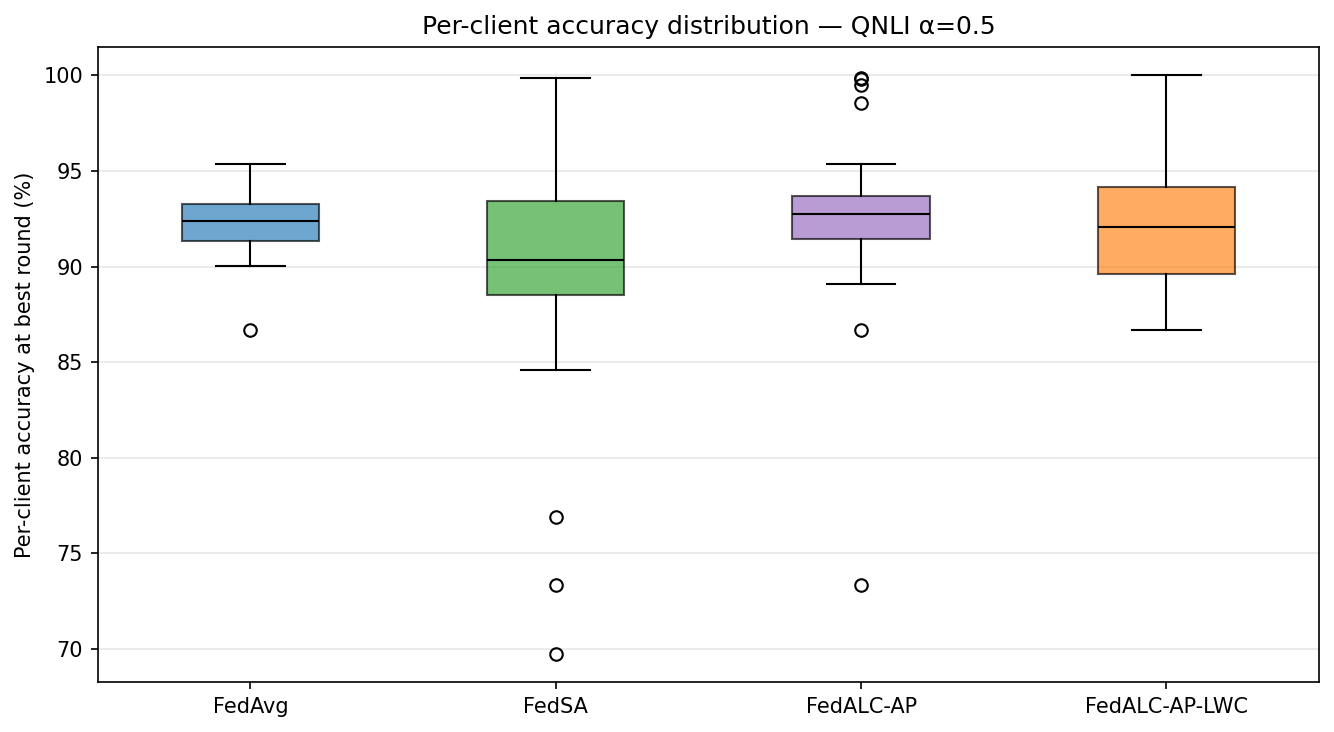
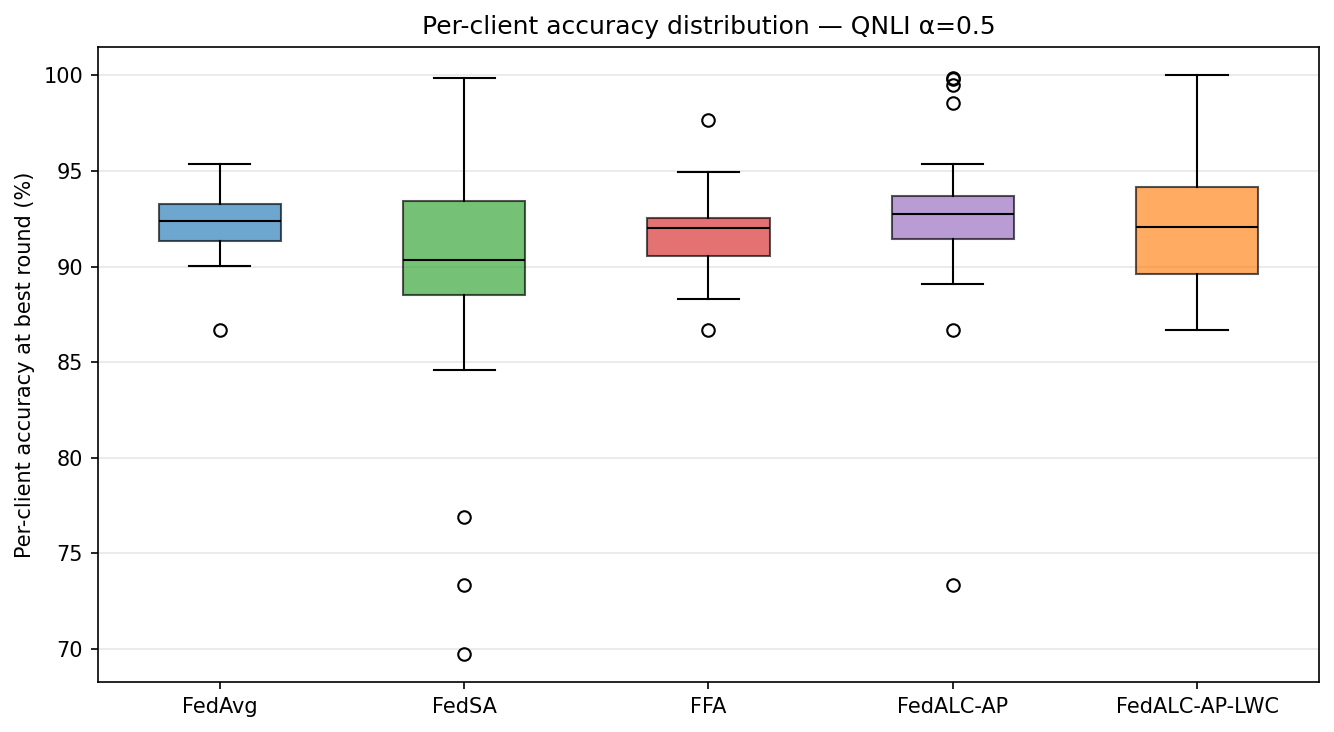
chore: misc infra tweaks + LR schedule investigation
Bundled set of independent infra changes before next experiment
batch. Listed below grouped by area.

LR schedule (code + investigation notes):
- bert/server_app.py + pyproject.toml: make `lr-schedule` config
  switchable ("cosine" | "constant"), keeping cosine as default.
- notes/ACTIVITY.md / related_papers.md / next_steps.md:
  document LR schedule design investigation. Decision: keep
  current C1 (cross-round cosine + within-round constant) --
  aligns with Flower SFT template, friendliest to small clients.
  Correct FedSA-LoRA "10 epochs" -> "10 batches" (verified
  against official yaml + FederatedScope defaults). Annotate
  FedADC cosine wording ambiguity. Add Task 6 (deferred) for
  C1 vs C2 ablation with run protocol.

FedALC-AP-LWC log enrichment:
- bert/fedalc_ap_lwc_strategy.py: snapshot selected_layer_indices
  + freeze round at Phase 1->2 trigger and echo them in every
  Phase 2 entry of clustering.jsonl, making each line
  self-contained for debug/analysis.
- pyproject.toml: annotate `warmup-sil-threshold` as deprecated
  for current LWC (no-warmup), still used by AP-Multi.

Plots:
- plot_method_comparison.py + regenerated PNGs: crop to 20 rounds
  for fair cross-method comparison; auto y-axis to data range
  with 5pp/1pp ticks; drop best-round star marker + std fill;
  update FFA alpha=0.5 QNLI batch and add LWC alpha=0.3 entries.

Runs:
- run_lwc_alpha03.sh: new sweep script for FedALC-AP-LWC on
  SST-2 + QNLI at alpha=0.3.

diff --git a/plot_method_comparison.py b/plot_method_comparison.py
@@ -43,23 +43,25 @@ METHODS: dict[str, dict[str, list]] = {
         "qnli": [
             ("FedAvg",         "20260402_132128_fedavg_a0.5",      "qnli_fedavg_a0.5",      "#1f77b4", "-", None),
             ("FedSA",          "20260405_071932_fedsa_a0.5",       "qnli_fedsa_a0.5",       "#2ca02c", "-", None),
-            ("FFA",            "20260416_064902_ffa_a0.5",         "qnli_ffa_a0.5",         "#d62728", "-", "server-only"),
+            ("FFA",            "20260422_065151_ffa_a0.5",         "qnli_ffa_a0.5",         "#d62728", "-", None),
             ("FedALC-AP",      "20260406_203614_fedalc_a0.5",      "qnli_fedalc_a0.5",      "#9467bd", "-", None),
             ("FedALC-AP-LWC",  "20260415_063849_fedalc-lwc_a0.5",  "qnli_fedalc-lwc_a0.5",  "#ff7f0e", "--", None),
         ],
     },
     "0.3": {
         "sst2": [
-            ("FedAvg",         "20260412_235402_fedavg_a0.3",      "sst2_fedavg_a0.3",      "#1f77b4", "-", None),
-            ("FedSA",          "20260412_235402_fedsa_a0.3",       "sst2_fedsa_a0.3",       "#2ca02c", "-", None),
-            ("FFA",            "20260416_064902_ffa_a0.3",         "sst2_ffa_a0.3",         "#d62728", "-", None),
-            ("FedALC-AP",      "20260408_114021_fedalc_a0.3",      "sst2_fedalc_a0.3",      "#9467bd", "-", None),
+            ("FedAvg",         "20260412_235402_fedavg_a0.3",       "sst2_fedavg_a0.3",       "#1f77b4", "-", None),
+            ("FedSA",          "20260412_235402_fedsa_a0.3",        "sst2_fedsa_a0.3",        "#2ca02c", "-", None),
+            ("FFA",            "20260416_064902_ffa_a0.3",          "sst2_ffa_a0.3",          "#d62728", "-", None),
+            ("FedALC-AP",      "20260408_114021_fedalc_a0.3",       "sst2_fedalc_a0.3",       "#9467bd", "-", None),
+            ("FedALC-AP-LWC",  "20260424_151019_fedalc-ap-lwc_a0.3","sst2_fedalc-ap-lwc_a0.3","#ff7f0e", "--", None),
         ],
         "qnli": [
-            ("FedAvg",         "20260412_235402_fedavg_a0.3",      "qnli_fedavg_a0.3",      "#1f77b4", "-", None),
-            ("FedSA",          "20260412_235402_fedsa_a0.3",       "qnli_fedsa_a0.3",       "#2ca02c", "-", None),
-            ("FFA",            "20260416_064902_ffa_a0.3",         "qnli_ffa_a0.3",         "#d62728", "-", None),
-            ("FedALC-AP",      "20260408_114021_fedalc_a0.3",      "qnli_fedalc_a0.3",      "#9467bd", "-", None),
+            ("FedAvg",         "20260412_235402_fedavg_a0.3",       "qnli_fedavg_a0.3",       "#1f77b4", "-", None),
+            ("FedSA",          "20260412_235402_fedsa_a0.3",        "qnli_fedsa_a0.3",        "#2ca02c", "-", None),
+            ("FFA",            "20260416_064902_ffa_a0.3",          "qnli_ffa_a0.3",          "#d62728", "-", None),
+            ("FedALC-AP",      "20260408_114021_fedalc_a0.3",       "qnli_fedalc_a0.3",       "#9467bd", "-", None),
+            ("FedALC-AP-LWC",  "20260424_151019_fedalc-ap-lwc_a0.3","qnli_fedalc-ap-lwc_a0.3","#ff7f0e", "--", None),
         ],
     },
 }
@@ -89,10 +91,17 @@ def per_round_stats(df: pd.DataFrame):
     return pd.DataFrame(records, columns=["round", "unweighted", "weighted", "std", "min", "max"])
 
 
+MAX_ROUND = 20  # Crop all plots to first N rounds for fair comparison
+
+
 def plot_metric_curves(alpha: str, task: str, metric: str, out_path: Path) -> list:
     """metric = 'unweighted' or 'weighted'."""
     fig, ax = plt.subplots(figsize=(9, 5))
     summary = []
+
+    # Track data range for auto-crop y-axis
+    data_min = 100.0
+    data_max = 0.0
 
     for name, batch, sub, colour, style, note in METHODS[alpha][task]:
         df = load_client_eval(batch, sub)
@@ -102,33 +111,41 @@ def plot_metric_curves(alpha: str, task: str, metric: str, out_path: Path) -> li
             summary.append((name, None, None, None, note or "missing"))
             continue
         stats = per_round_stats(df)
+        # Crop to first MAX_ROUND rounds
+        stats = stats[stats["round"] <= MAX_ROUND].reset_index(drop=True)
+        if stats.empty:
+            continue
         best_idx = stats[metric].idxmax()
         best = stats.loc[best_idx, metric]
         best_round = int(stats.loc[best_idx, "round"])
         last = stats[metric].iloc[-1]
         label = f"{name}{' (' + note + ')' if note else ''}  best={best*100:.2f}%@R{best_round}"
-        ax.plot(stats["round"], stats[metric] * 100,
+        vals = stats[metric] * 100
+        ax.plot(stats["round"], vals,
                 label=label, color=colour, linestyle=style, linewidth=1.8)
-        if metric == "unweighted":
-            ax.fill_between(stats["round"],
-                            (stats[metric] - stats["std"]) * 100,
-                            (stats[metric] + stats["std"]) * 100,
-                            color=colour, alpha=0.08)
-        # Mark best-round peak
-        ax.scatter([best_round], [best * 100], color=colour, s=70,
-                   marker="*", edgecolors="black", linewidths=0.8, zorder=5)
-        ax.annotate(f"R{best_round}",
-                    xy=(best_round, best * 100),
-                    xytext=(4, 4), textcoords="offset points",
-                    fontsize=8, color=colour, fontweight="bold")
+        data_min = min(data_min, vals.min())
+        data_max = max(data_max, vals.max())
         summary.append((name, best * 100, best_round, last * 100, note or ""))
 
     ax.set_xlabel("Round")
     ax.set_ylabel(f"{'Unweighted' if metric == 'unweighted' else 'Weighted'} per-client accuracy (%)")
-    subtitle = "mean ± std" if metric == "unweighted" else "Σ(acc·n) / Σn (== global pooled)"
+    subtitle = "mean per client" if metric == "unweighted" else "Σ(acc·n) / Σn (== global pooled)"
     ax.set_title(f"{task.upper()} α={alpha} — {metric} per-client acc ({subtitle})")
-    ax.grid(True, alpha=0.3)
     ax.legend(loc="lower right", fontsize=10)
+
+    # Auto-crop y-axis to data range (margin 2pp), ticks 5pp major / 1pp minor
+    import numpy as np
+    from matplotlib.ticker import MultipleLocator
+    ymin = max(0, np.floor((data_min - 2) / 5) * 5)
+    ymax = min(100, np.ceil((data_max + 1) / 5) * 5)
+    ax.set_ylim(ymin, ymax)
+    ax.yaxis.set_major_locator(MultipleLocator(5))
+    ax.yaxis.set_minor_locator(MultipleLocator(1))
+    ax.grid(True, which="major", alpha=0.35)
+    ax.grid(True, which="minor", alpha=0.12)
+
+    ax.set_xlim(1, MAX_ROUND)
+
     fig.tight_layout()
     fig.savefig(out_path, dpi=150, bbox_inches="tight")
     plt.close(fig)

diff --git a/bert/fedalc_ap_lwc_strategy.py b/bert/fedalc_ap_lwc_strategy.py
@@ -94,6 +94,10 @@ class FedALCAPLWCStrategy(FedAvg):
         self.prev_cluster_groups: Optional[set] = None
         self.rounds_stable: int = 0
 
+        # Freeze snapshot (echoed into Phase 2 logs for self-contained reading)
+        self._frozen_layer_indices: Optional[List[int]] = None
+        self._frozen_at_round: Optional[int] = None
+
         # Init clustering log file
         self._cluster_log_path: Optional[str] = None
         if log_dir:
@@ -312,6 +316,11 @@ class FedALCAPLWCStrategy(FedAvg):
                 int(label): list(member_cids)
                 for label, member_cids in cluster_members.items()
             }
+            # Snapshot layer selection at freeze time so Phase 2 logs are self-contained
+            self._frozen_layer_indices = (
+                list(self.selected_layer_indices) if self.selected_layer_indices else None
+            )
+            self._frozen_at_round = int(server_round)
             logger.info(
                 f"Round {server_round}: → Phase 2 (frozen), "
                 f"sil={sil_score:.4f}, stable_rounds={self.rounds_stable}"
@@ -433,14 +442,24 @@ class FedALCAPLWCStrategy(FedAvg):
             clustering_metrics["phase"] = 2
             clustering_metrics["cluster_sizes"] = str(cluster_sizes)
 
-            # Log frozen round
+            # Log frozen round (echo layer snapshot so each entry is self-contained)
             if self._cluster_log_path:
+                b_keys = [k for k in self.lora_param_keys if "lora_B" in k]
+                frozen_b_keys = (
+                    [b_keys[i] for i in self._frozen_layer_indices]
+                    if self._frozen_layer_indices else []
+                )
                 log_entry = {
                     "round": server_round,
                     "phase": 2,
                     "n_clusters": n_clusters,
                     "silhouette_score": -1.0,
-                    "clustering_features": {"method": "frozen"},
+                    "clustering_features": {
+                        "method": "frozen",
+                        "frozen_layer_indices": self._frozen_layer_indices,
+                        "frozen_b_keys": frozen_b_keys,
+                        "frozen_at_round": self._frozen_at_round,
+                    },
                     "clusters": {
                         str(k): sorted(
                             [cid_to_pid.get(c, c) for c in v],

diff --git a/bert/server_app.py b/bert/server_app.py
@@ -288,14 +288,21 @@ def server_fn(context: Context):
     summary_handler.addFilter(_SummaryFilter())
     flwr_logger.addHandler(summary_handler)
 
-    # Build on_fit_config_fn with round-level cosine annealing
+    # Build on_fit_config_fn with configurable LR schedule
+    lr_schedule = str(cfg.get("lr-schedule", "cosine")).lower()
+    if lr_schedule not in ("cosine", "constant"):
+        raise ValueError(f"lr-schedule must be 'cosine' or 'constant', got {lr_schedule!r}")
+
     def fit_config(server_round: int):
-        lr = cosine_annealing(
-            current_round=server_round,
-            total_round=num_rounds,
-            lrate_max=learning_rate,
-            lrate_min=1e-6,
-        )
+        if lr_schedule == "cosine":
+            lr = cosine_annealing(
+                current_round=server_round,
+                total_round=num_rounds,
+                lrate_max=learning_rate,
+                lrate_min=1e-6,
+            )
+        else:  # "constant"
+            lr = learning_rate
         return {"current_round": server_round, "learning_rate": lr, "log_timestamp": log_timestamp}
 
     # Build evaluate function

diff --git a/notes/ACTIVITY.md b/notes/ACTIVITY.md
@@ -12,6 +12,57 @@
 
 ---
 
+## [2026-05-04] meta | LR schedule design 調查 + paper notes 修正
+
+**Files changed**：
+- `notes/papers/related_papers.md`：修正 FedSA-LoRA「local epochs=10」→「10 batches (corrected)」,加上「Optimizer: SGD lr=0.02, no scheduler/no warmup」(查官方 yaml + FederatedScope defaults 確認);FedADC 條目補 cosine schedule 措辭註解(p.9 原文 "decays according to a cosine scheduler",最自然解讀是 within-round HF cosine,但 paper 沒釋出 code 無法 100% 確認)
+- `notes/plans/next_steps.md`：新增 Task 6 (deferred) — LR schedule ablation (C1 vs C2 × α=0.3/0.5),paper appendix 用
+
+**Why**：討論「FL LR schedule 該怎麼選」,從質疑現行 C1(cross-round cosine + within-round constant)「不是 LoRA 標準」開始,逐層查證後修正了 4 個 framing 錯誤:
+1. **「LoRA 標準 = cosine + warmup」不正確** — 原 LoRA paper(microsoft/LoRA RoBERTa-large SST-2)用 **linear + warmup_ratio=0.06, lr=4e-4**,不是 cosine
+2. **「FedSA-LoRA 用 10 epochs」不正確** — 官方 yaml 是 `local_update_steps: 10` + `batch_or_epoch: batch`,實際是 10 batches (= 10 optimizer steps);加上他們是 SGD constant LR,沒 scheduler 沒 warmup
+3. **「C1 跟 FedADC 對齊」不正確** — FedADC paper 措辭最自然解讀是 **within-round cosine**(C2),不是 round-level cosine。所以 C1 是 Flower SFT template 獨有設計,沒 paper 直接對應
+4. **「FL+LoRA 圈有 LR schedule convention」不成立** — paper 圈普遍 SGD constant 居多,沒人 ablate 過 within-round vs across-round cosine 差異
+
+**核心發現** — within-round cosine(任何衰到 0 的 schedule)會 hurt 小 client:
+- 200-example client(2 steps):step 0=peak, step 1≈0 → **50% step 浪費**
+- 5000-example client(39 steps):末段 ~3 step 浪費 → ~8%
+- C1 對所有 client 中性,**Flower template 巧合地是對 small client 最 friendly 的設計**
+
+**衍生發現**:AdamW 在 FL 下的結構性問題 — optimizer state(m, v)每 round Trainer 重建時 reset → 第 1-3 step 不穩定。Centralized 用 warmup 補償,FL 1 epoch + 17 step 沒空間 warmup。FedSA-LoRA 用 SGD 直接迴避這個問題。真解法是 FedOpt/FedAdam(server-side momentum),不在當前 plan 範圍。
+
+**Decision**:
+- **不改現行 config**(C1 維持),理由:對 small client 友善 + 跟 Flower template 對齊 + 改了會 invalidate 既有 baseline 結果
+- **C1 vs C2 ablation 列為 deferred future work**(`next_steps.md` Task 6),paper appendix 用
+
+**Follow-up**：
+- 未來若需要 ablate(paper appendix),`pyproject.toml` 切 `lr-schedule="constant"` + `lr-scheduler-type="cosine"` 即可,**0 行 code change**
+- 若要從根本解決 AdamW state reset → 實作 FedOpt-style server-side optimizer(較大改動,paper extension scope)
+- 完整討論記錄在 `~/.claude/plans/lora-buzzing-seal.md`(plan v4)
+
+---
+
+## [2026-04-24] experiment | Singleton 成因驗證 + label 分布 dump tool
+
+**Files added**：
+- `tools/dump_partition_stats.py`：per-partition stats dump tool（train/test size + label counts + ratios）。Output JSON + TSV，跟 `bert/dataset.py` 共用 Dirichlet + seeded split，保證跟 FL 訓練實際 seen 的分布一致
+- `logs/partition_stats/qnli_c30_a0.5_s42.{json,tsv}`：QNLI α=0.5 完整 30 partition stats
+- `notes/experiments/label_skew_singleton_analysis.md`：singleton 成因分析
+
+**Why**：長期追蹤的 QNLI α=0.5 structural singleton (`pid_16` 全 30 輪孤立) 謎團解開 — **pid_16 的 label marginal 是 99.5% label_1，而其他高 accuracy client (pid_1/9/20) 是 99%+ label_0**。label 相反 → LoRA-B 學出反向分類器 → cosine(B) ≈ 負 → AP / Agglomerative 都會把它判為 outlier → singleton 是**結構性正確**，不是 clustering bug。
+
+**Implication**：
+- Singleton = feature not bug（在 inverse label marginal 的情境下）
+- 強制 `min_cluster_size=2` merge to nearest 會把 pid_16 塞進 label_0 cluster → cluster-averaged B 正負相消 → pid_16 accuracy 預計從 99.5% 掉到 ~50-60%（未驗證）
+- Paper 立場：personalized FL 下 singleton 是正確的 personalization decision
+
+**Follow-up**：
+- 跑剩 3 組：`for t in sst2 qnli; do for a in 0.3 0.5; do python tools/dump_partition_stats.py --task $t --alpha $a; done; done`
+- 實測 min_cluster_size=2 merge 對 pid_16 accuracy 的代價
+- `docs_index.md` 已加條目
+
+---
+
 ## [2026-04-21] add-note | FedALC-AP 三變體同異比較
 
 **Files added**：

diff --git a/notes/plans/next_steps.md b/notes/plans/next_steps.md
@@ -245,6 +245,47 @@ Layer-wise 在 single task 下的可能性：
 
 Agglomerative + per-cluster A+B 聚合（無 MoE）。最重要的 Tier 2 baseline。
 
+### Task 6 (deferred): LR Schedule Ablation — within-round constant vs cosine
+
+**狀態**：2026-05-04 deferred,優先 strategy ablation,LR schedule 不是 paper 主軸
+
+**動機**：
+
+現行設定是 **C1: cross-round cosine + within-round constant**（Flower SFT template default）。但 FedADC（最像我們 setup 的 paper）p.9 寫 "the local learning rate is set to 0.001 and decays according to a cosine scheduler",最自然解讀是 **C2: within-round step-level cosine**（HF Trainer `lr_scheduler_type="cosine"`）。所以 C1 vs C2 哪個對 personalized FL+LoRA 更好,**是個沒人 ablate 過的開放問題**。
+
+**Hypothesis**：
+
+C2(within-round cosine)hurt 小 client。具體分析:
+- 200-example client（2 steps）：step 0=peak, step 1≈0 → **50% step 浪費**
+- 5000-example client（39 steps）：末段 ~3 step 浪費 → ~8%
+- C1 對 client size 中性,所有 step 同 LR
+
+預期 α=0.3 下 C2 < C1 in unweighted-mean accuracy(尤其小 client subset),α=0.5 下差距小。
+
+**Proposed experiment(when revisited)**：
+
+| Run | `lr-schedule` | `lr-scheduler-type` | α | Strategy |
+|---|---|---|---|---|
+| C1 baseline | `cosine` | `constant` | 0.3 / 0.5 | FedAvg |
+| C2 | `constant` | `cosine` | 0.3 / 0.5 | FedAvg |
+
+固定:`task=sst2`, `rounds=20`, `lr=0.001`, `aggregation=fedavg`(排除 strategy confound)。每組 1 次,共 4 runs。
+
+**Verification**：
+1. Final round unweighted mean accuracy (主 metric,from `eval_metrics.tsv`)
+2. **Per-client distribution**:把 client 按 `train_samples` 排序,看小 client 的 accuracy gap
+3. Convergence trajectory
+
+**Why deferred**：
+
+- 現行 C1 跟 Flower template 對齊,沒有 broken
+- LR schedule 不是 paper 主要 contribution,strategy ablation(FedALC variants)優先
+- 真要做也可以放在 paper appendix 當「我們也驗證了 schedule choice」的 supporting ablation
+
+**相關修正**(2026-05-04 同時更新):
+
+- `notes/papers/related_papers.md` — FedSA-LoRA 「local epochs=10」修正為「10 batches」(查官方 yaml + FederatedScope defaults 後發現之前誤讀);加 FedADC cosine 措辭註解
+
 ## 推薦執行順序
 
 1. **Task 1**（freeze → FedALC）：最快，1-2 小時實作 + 幾小時跑
@@ -253,6 +294,7 @@ Agglomerative + per-cluster A+B 聚合（無 MoE）。最重要的 Tier 2 baseli
 4. **Task 4**（global eval 修正）：1 天
 5. **Task 5**（FedLEASE）：2-3 天
 6. Multi-task（如果要做 LWC 驗證）
+7. **Task 6**（LR schedule ablation）：deferred,paper appendix 用,4 runs(~4 小時)
 
 ## Paper 裡這樣組織實驗
 

diff --git a/notes/papers/related_papers.md b/notes/papers/related_papers.md
@@ -12,8 +12,10 @@
   - 非 GLUE: GSM8K, CodeSearchNet
   - Clients: 3（ablation: 10, 20, 100）
   - Non-IID: Dirichlet α=0.5（也測 α=1.0 和 IID）
-  - Optimizer: SGD; LR=0.02
-  - LoRA: r=8, α=16, target=Q,V; rounds=1000; local epochs=10; batch=128
+  - Optimizer: **SGD, lr=0.02**（FederatedScope default）
+  - LR scheduler: **none**（FederatedScope `cfg.train.scheduler.type = ''` default,no warmup）
+  - LoRA: r=8, α=16, target=Q,V; rounds=1000; **local update steps=10 (batches, NOT epochs)**; batch=128
+  - **Note (2026-05-04 corrected)**：之前寫「local epochs=10」是誤讀。官方 yaml 是 `local_update_steps: 10` + `batch_or_epoch: batch`,實際是 10 個 batch(= 10 個 optimizer steps)per round,不是 10 個 epoch。整個 FL run 共 1000 × 10 = 10,000 optimizer steps
 
 ### 2. FedADC: Federated Fine-Tuning on Heterogeneous Data with Alternating Device-to-Device Collaboration
 - **發表**: Computer Networks, 2026
@@ -25,6 +27,8 @@
   - Clients: 80 devices（實體異質平台，非模擬）
   - Non-IID: Dirichlet p∈{0.1, 0.2, 0.5, 1.0}
   - LoRA: SST-2 r=8, 其餘 r=16; rounds=100; local epochs=1; batch=32; grad accum=4; AdamW lr=0.001 cosine
+  - **LR schedule note (2026-05-04 added)**：原文 p.9 寫 "the local learning rate is set to 0.001 and decays according to a cosine scheduler"。措辭曖昧 — 最自然解讀是 **within-round step-level cosine**(即 HF Trainer `lr_scheduler_type="cosine"`,= 我們 plan 中的 C2),因為「local」+ HF default 行為。但 paper 沒釋出 code,無法 100% 確認是否實際 across-round cosine
+  - **與我們 setup 對照**:AdamW + lr=0.001 + 1 epoch + batch=32 + grad_accum=4 **完全一致**;唯一差別是 cosine schedule 的位階(within-round vs across-round)
   - Baselines: BaseFedLoRA (FedAvg), FFA-LoRA, RoLoRA
 
 #### MADC（Mean Absolute Differences of pairwise Cosine similarity）
@@ -419,7 +423,7 @@ Silhouette 最佳 K=4（恰好 4 個任務），heatmap 顯示 block-diagonal。
 
 | 論文 | Optimizer | LoRA rank | LoRA target | Rounds | Local epochs/steps | Batch |
 |---|---|---|---|---|---|---|
-| FedSA-LoRA | SGD, lr=0.02 | r=8, α=16 | Q, V | 1000 | 10 epochs | 128 |
+| FedSA-LoRA | SGD, lr=0.02, **no scheduler/warmup** | r=8, α=16 | Q, V | 1000 | **10 batches** (corrected) | 128 |
 | FFA-LoRA | SGD | r=8, α=16 | attention + FFN | 1000 | 10 steps | 200 |
 | RoLoRA | — | r∈{1,2,4,8} | Q, V | 500 (RTE=200) | 20 epochs | 32 |
 | ADF-LoRA | AdamW | r=8, α=16 | Q, V | 150 | 20 steps | 32 |
